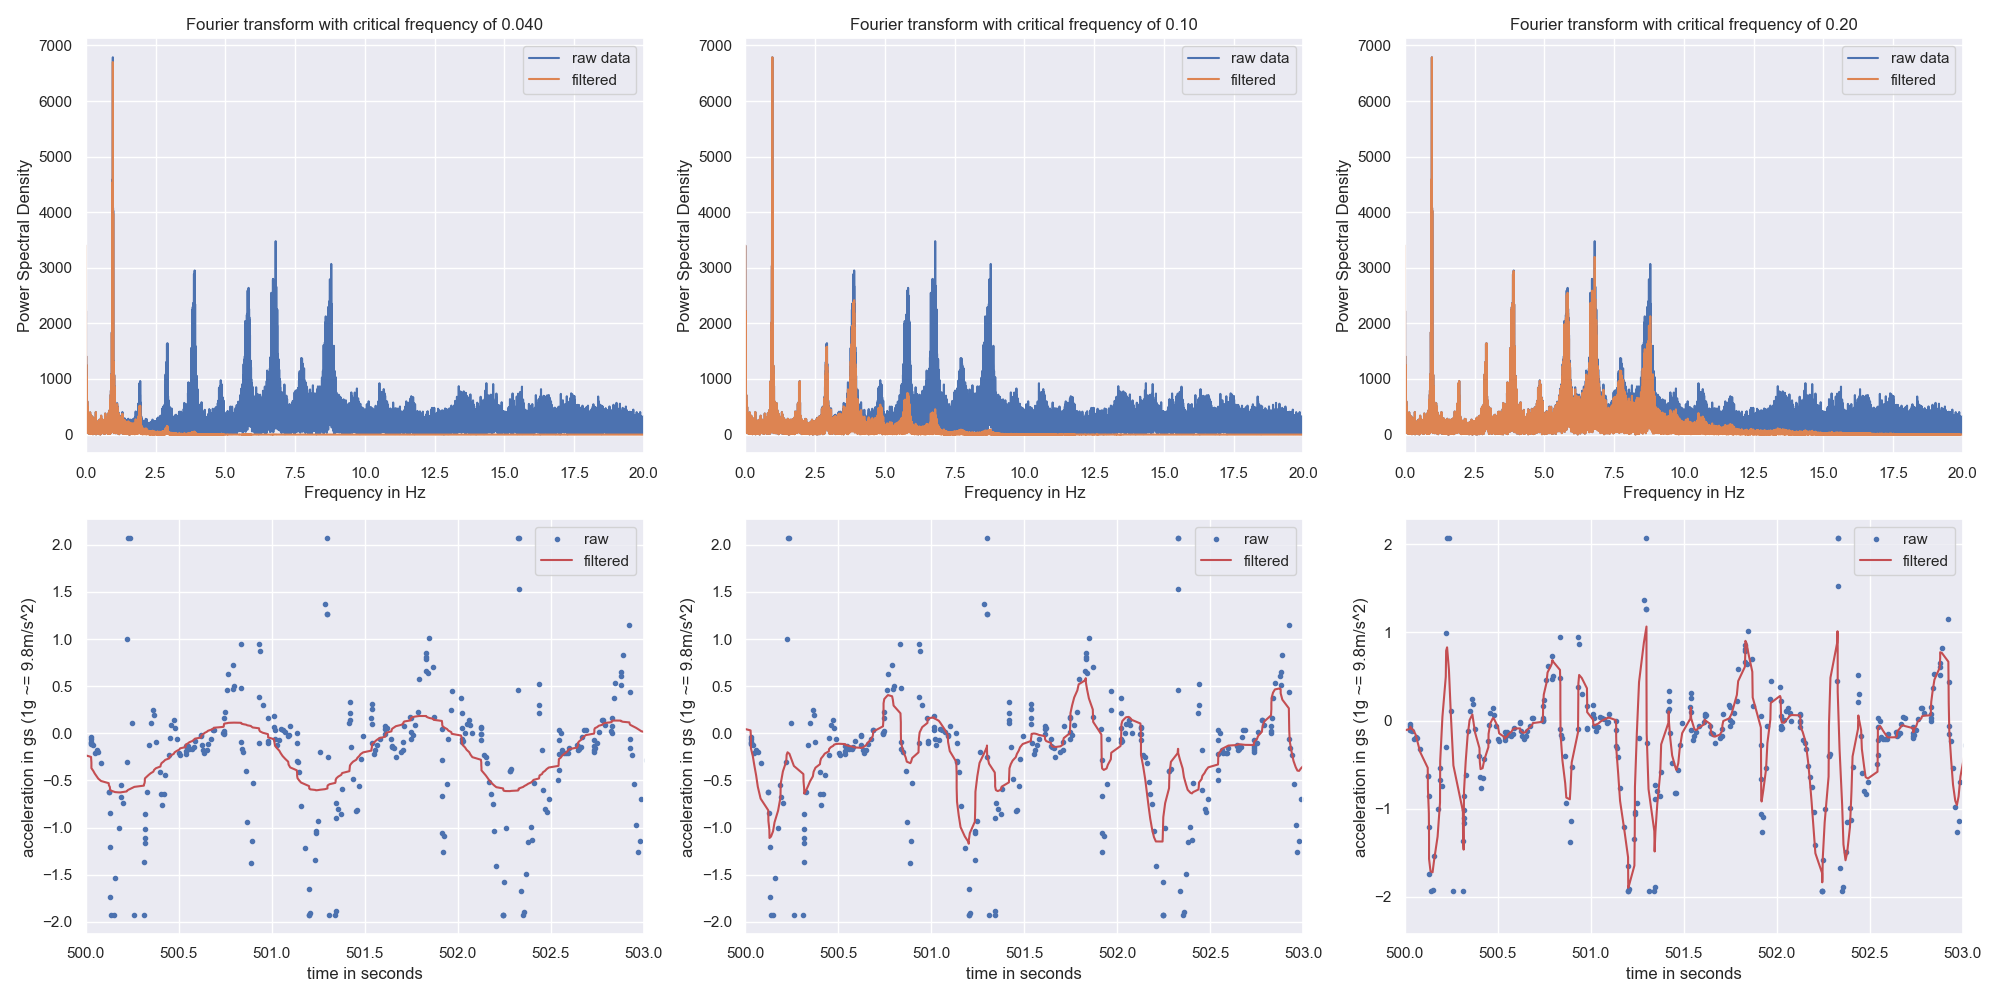
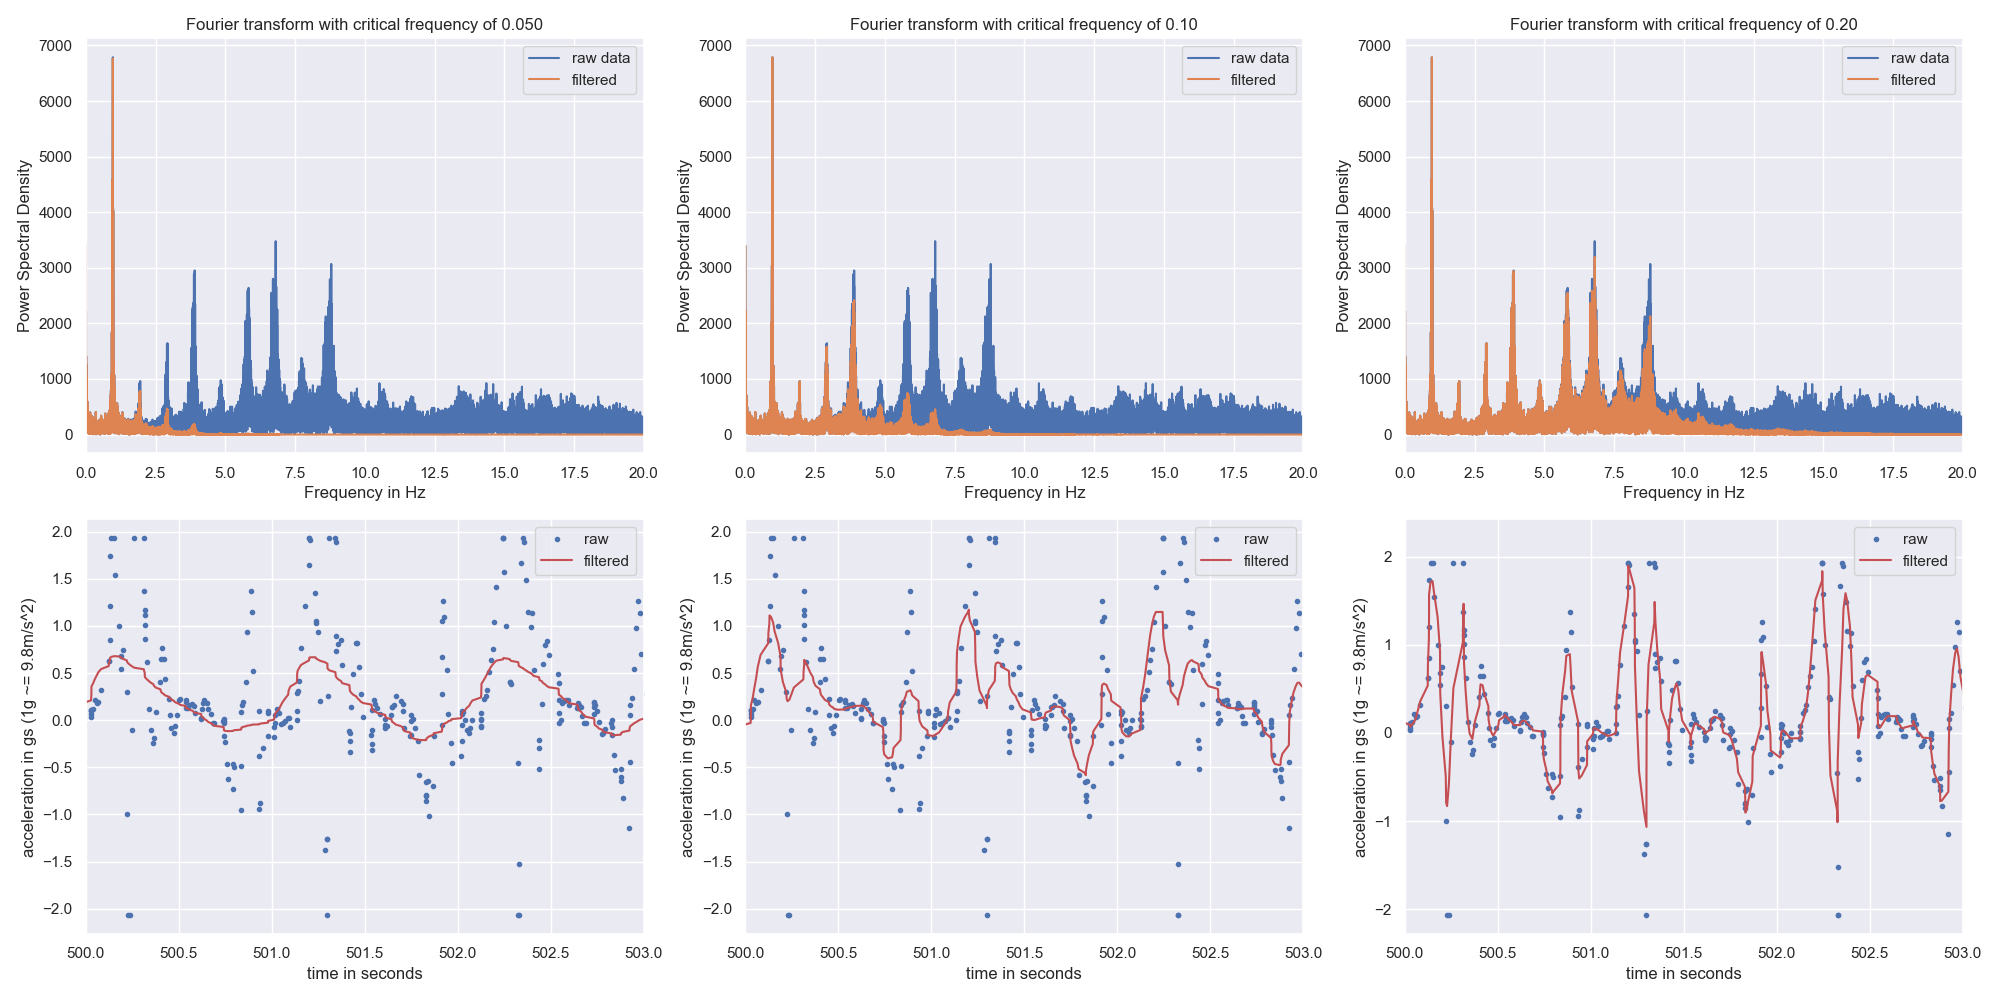
finished with distance

diff --git a/Python/big_scale_velocity.py b/Python/big_scale_velocity.py
@@ -14,20 +14,13 @@ def main(in_directory):
     data = pd.read_csv(in_directory)
     seaborn.set()
 
-    # print(data)
     #give columns variable names
     time = data['time']
-    x = data['gFx'] 
-    # print(data)
-    # total = data['']
+    x = data['gFx']
 
     #useful values for filtering
     Freq = time.count() / time.max() #the Hz can be calculated this way
     good_but = 10/Freq
-
-    #this code takes out data where we are standing
-    # x_acceleration['abs'] = x_acceleration['acceleration'].abs()
-    # x_acceleration = x_acceleration[x_acceleration['abs']>=.0001]
 
     # Filtering
     b, a = signal.butter(3, good_but, btype='lowpass', analog=False)
@@ -36,25 +29,32 @@ def main(in_directory):
     #Noticed that if window is too large method wont work so this limits window and correct for
     x_acceleration = pd.DataFrame({'time':time,'g-force':filtered_x})
     x_acceleration['acceleration'] = x_acceleration['g-force'].multiply(9.81)
-
-    #still going to remove first and last 3 mins cause they are likely me trying to setup and stop app
     
-    #code for limiting window when experimenting
+    #code for limiting time window when experimenting
     # x_acceleration = x_acceleration[x_acceleration['time']>60*1]
     # endtime = x_acceleration['time'].max()
     # x_acceleration = x_acceleration[x_acceleration['time']<600]
    
     #this time i need to calculate the rolling mean with 
     mean = x_acceleration
-    mean['time'] = mean['time']
     mean = mean.set_index('time')
-    mean = mean.rolling(math.ceil((Freq)), center = True).mean() #assume somewhat evenly distributed data every 1 second which is Freq
+    #Ended up choosing triangle filter because works nicely and we know our data is slightly skewed but I believe close numbers represent avg
+    #better than the numbers further away
+    # hope is to reduce outliers like standing from habing influence on data
+
+    # mean = mean.rolling(math.ceil((Freq)),win_type='triang',closed='both',center=True).mean() #chose freq for window cause figure it is around 1 to 2 seconds
+    mean = mean.rolling(math.ceil((Freq)),win_type='blackmanharris',closed='both').mean()
+    print(mean)
     mean = mean.reset_index()
 
     x_acceleration['acceleration'] = x_acceleration['acceleration'] - mean['acceleration']
     x_acceleration = x_acceleration.dropna()
     plt.plot(x_acceleration['time'],x_acceleration['acceleration'])
     # plt.show()
+
+    #seeing if I can do rolling integration here
+    vel = x_acceleration
+    vel = vel.set_index('time')
 
     # # #do some integration to get velocity, note that we run into issue of an ever increasing acceleration
     #same code as before in KevinVelocity
@@ -83,11 +83,11 @@ def main(in_directory):
     plt.xlabel('time(s)')
     plt.ylabel('distance m')
     plt.legend()
-    # plt.show()
     figure = plt.gcf()
     figure.set_size_inches(8, 6)
     figure.tight_layout()
     figure.savefig('Report_and_Figures/vel_dist_long.png',dpi=100)
+    plt.show()
 
 if __name__=='__main__':
     in_directory = sys.argv[1]

diff --git a/Python/KevinVelocity.py b/Python/KevinVelocity.py
@@ -17,8 +17,9 @@ def main(in_directory):
     # print(data)
     #give columns variable names
     time = data['time']
-    x = data['gFx'] 
-    # print(data)
+    x = data['gFx']
+    print(data)
+    # print(x)
     # total = data['']
 
     #useful values
@@ -31,12 +32,12 @@ def main(in_directory):
 
     #Noticed that if window is too large method wont work so this limits window and correct for
     x_acceleration = pd.DataFrame({'time':time,'g-force':filtered_x})
-    x_acceleration = x_acceleration[x_acceleration['time']>470]
-    x_acceleration = x_acceleration[x_acceleration['time']<480]
+    x_acceleration = x_acceleration[x_acceleration['time']>488]
+    x_acceleration = x_acceleration[x_acceleration['time']<490]
     x_acceleration['acceleration'] = x_acceleration['g-force'].multiply(9.81)
-    x_acceleration['acceleration'] = x_acceleration['acceleration']-x_acceleration['acceleration'].mean() 
+    x_acceleration['acceleration'] = x_acceleration['acceleration']-x_acceleration['acceleration'].mean()
 
-    # print(x_acceleration['acceleration'].mean())
+    print(x_acceleration['acceleration'].mean())
     plt.plot(x_acceleration['time'],x_acceleration['acceleration'])
 
 
@@ -69,11 +70,11 @@ def main(in_directory):
     plt.xlabel('time(s)')
     plt.ylabel('distance m')
     plt.legend()
-    # plt.show()
     figure = plt.gcf()
     figure.set_size_inches(8, 6)
     figure.tight_layout()
     plt.savefig('Report_and_Figures/vel_dist_short.png',dpi=100)
+    plt.show()
 
 if __name__=='__main__':
     in_directory = sys.argv[1]

diff --git a/Python/KevinAnalysis_Fourier.py b/Python/KevinAnalysis_Fourier.py
@@ -16,11 +16,11 @@ def main(in_directory):
     L= int(data.shape[0])
 
     #butter fractions
-    strin_but= 4/Freq
+    strin_but= 5/Freq
     good_but = 10/Freq
     lax_but =  20/Freq
     #give columns variable names
-    x = data['gFx']
+    x = data['gFx']*-1
     y = data['gFy']
     z = data['gFz']
     total = data['TgF'] 
@@ -112,7 +112,7 @@ def main(in_directory):
     figure.set_size_inches(20, 10)
     figure.tight_layout()
     figure.savefig('Report_and_Figures/fourier_analysis.png',dpi=100)
-    plt.show()
+    # plt.show()
   
 
 if __name__=='__main__':
